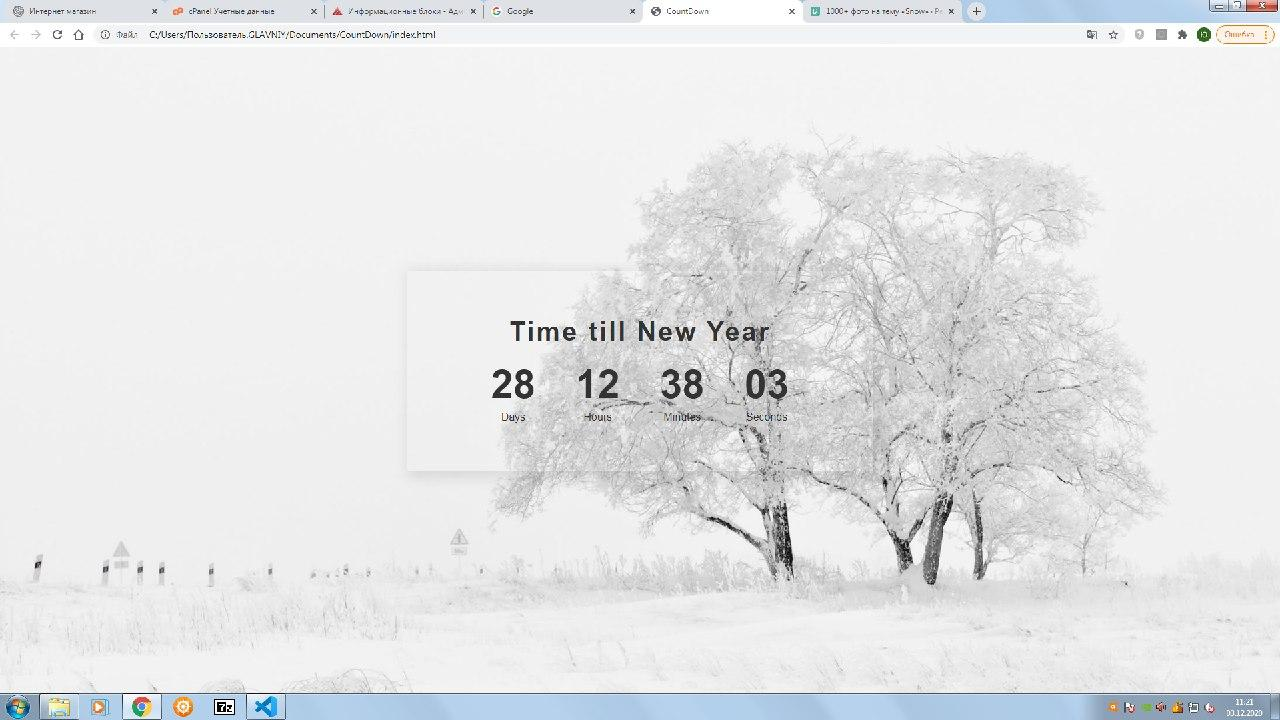
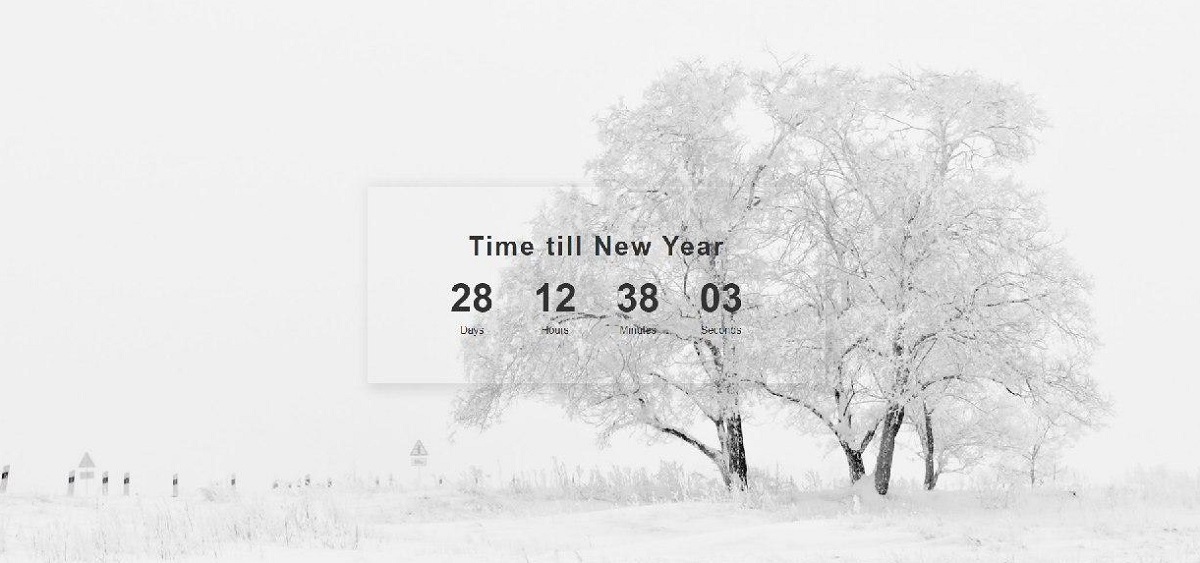
Added Twitter Card

diff --git a/index.html b/index.html
@@ -3,6 +3,11 @@
 <head>
     <meta charset="UTF-8">
     <meta name="viewport" content="width=device-width, initial-scale=1.0">
+    <!-- Twitter card -->
+   <meta name="twitter:card" content="summary_large_image">
+   <meta property="og:url" content="https://new-year-countdown-me.netlify.app">
+   <meta property="og:title" content="New Year Count Down">
+   <meta property="og:image" content="https://new-year-countdown-me.netlify.app/twitter-card.jpg">
     <link rel="stylesheet" href="./style.css">
     <title>CountDown</title>
 </head>
